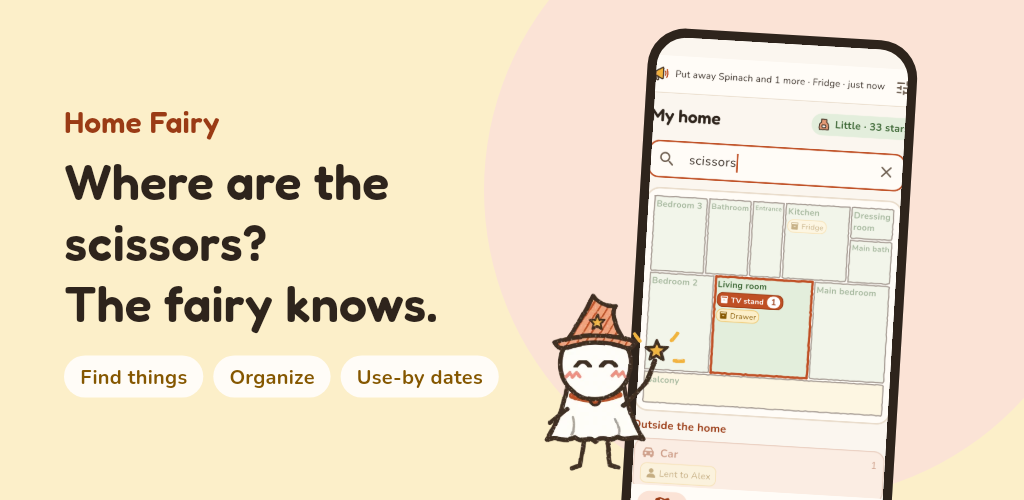
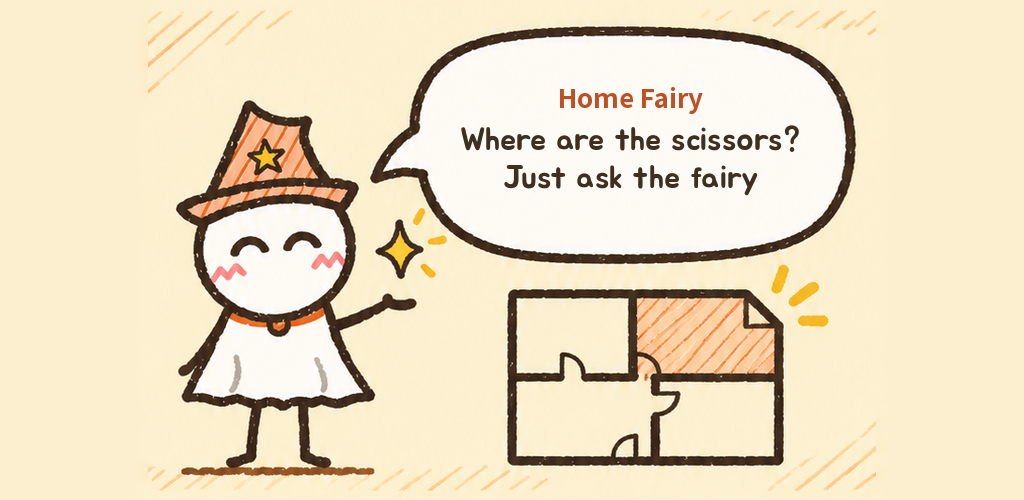
Fairy: five new poses (listen, think, answer, not found, ask); store art for talking to the fairy
- The ordered sprite sheet, cut out of its drawn checkerboard and placed
  like the other poses, with sticker-outlined dark versions. The talk
  screen uses them: listening, thinking while the server is asked, the
  answer, not found, and the question about buying.
- New feature graphic and a 7th screenshot ("말로 물어보면 요정이 찾아
  줘요") from the ordered art, in Korean and English. The golden test's
  older feature graphic now writes *-feature-map.png so it does not
  overwrite them. Cutting and layout scripts kept in docs/asset-brief.

Claude-Session: https://claude.ai/code/session_01B27ZN5yP1ixiSBpvkuwVVP

diff --git a/app/lib/features/search/search_results.dart b/app/lib/features/search/search_results.dart
@@ -207,14 +207,14 @@ class _SearchResultsState extends ConsumerState<SearchResults> {
       return Column(
         crossAxisAlignment: CrossAxisAlignment.stretch,
         children: [
-          _FairySays(l.fairyBuyAsk(term), pose: FairyPose.found),
+          _FairySays(l.fairyBuyAsk(term), pose: FairyPose.ask),
           _Action(intent: AskIntent.buy, name: term),
         ],
       );
     }
     final family = ref.watch(householdProvider).value;
     if (!_asking) _noteNothing(q);
-    final notFound = _FairySays(_asking ? l.searchThinking : l.fairyNotFound(term.isEmpty ? q : term), pose: _asking ? FairyPose.found : FairyPose.worry);
+    final notFound = _FairySays(_asking ? l.searchThinking : l.fairyNotFound(term.isEmpty ? q : term), pose: _asking ? FairyPose.think : FairyPose.notfound);
     // In a shared home, nobody's phone knew it: ask the people instead.
     if (_asking || family == null || family.members.length < 2 || term.isEmpty) return notFound;
     return Column(
@@ -263,7 +263,7 @@ class _CookIdeas extends ConsumerWidget {
   Widget build(BuildContext context, WidgetRef ref) {
     final l = AppLocalizations.of(context);
     final list = withTerm(ref.watch(cookIdeasProvider), term);
-    if (list.isEmpty) return _FairySays(l.fairyCookNone, pose: FairyPose.worry);
+    if (list.isEmpty) return _FairySays(l.fairyCookNone, pose: FairyPose.notfound);
     return Column(
       crossAxisAlignment: CrossAxisAlignment.stretch,
       children: [
@@ -335,7 +335,7 @@ class _List extends ConsumerWidget {
     return Column(
       crossAxisAlignment: CrossAxisAlignment.stretch,
       children: [
-        _FairySays(fairy, pose: FairyPose.found, smart: smart),
+        _FairySays(fairy, pose: FairyPose.answer, smart: smart),
         if (intent == AskIntent.buy || intent == AskIntent.usedUp) _Action(intent: intent, name: found.first.item.name, item: found.first.item),
         const SizedBox(height: AppSpace.sm),
         for (final f in found)

diff --git a/app/lib/features/search/ask_screen.dart b/app/lib/features/search/ask_screen.dart
@@ -129,7 +129,7 @@ class _AskScreenState extends ConsumerState<AskScreen> {
               children: [
                 // Newest at the bottom, right above the box.
                 for (final (i, t) in turns.reversed.indexed) _Turn(key: ValueKey('turn-${turns.length - i}-$t'), question: t),
-                if (turns.isEmpty) _Hello(text: l.askHello),
+                if (turns.isEmpty) _Hello(text: _listening ? l.voiceListening : l.askHello, listening: _listening),
               ],
             ),
           ),
@@ -182,9 +182,10 @@ class _AskScreenState extends ConsumerState<AskScreen> {
 
 /// The fairy says what she can do before anything is asked.
 class _Hello extends StatelessWidget {
-  const _Hello({required this.text});
+  const _Hello({required this.text, this.listening = false});
 
   final String text;
+  final bool listening;
 
   @override
   Widget build(BuildContext context) {
@@ -193,7 +194,7 @@ class _Hello extends StatelessWidget {
       padding: const EdgeInsets.only(top: AppSpace.xl),
       child: Column(
         children: [
-          const Fairy(FairyPose.hello, height: 120),
+          Fairy(listening ? FairyPose.listen : FairyPose.hello, height: 120),
           const SizedBox(height: AppSpace.md),
           FitText(text, textAlign: TextAlign.center, style: Theme.of(context).textTheme.bodyLarge?.copyWith(color: c.mutedFg)),
         ],

diff --git a/app/lib/widgets/fairy.dart b/app/lib/widgets/fairy.dart
@@ -3,7 +3,7 @@ import 'package:flutter/material.dart';
 /// The six House Fairy expressions (design/fairy/parts.svg, baked by
 /// tool/bake_fairy.mjs). Dark variants carry a light sticker outline so the
 /// stick arms stay visible on dark backgrounds.
-enum FairyPose { hello, found, carry, worry, cheer, sleep }
+enum FairyPose { hello, found, carry, worry, cheer, sleep, listen, think, answer, notfound, ask }
 
 class Fairy extends StatelessWidget {
   const Fairy(this.pose, {super.key, this.height = 120});

diff --git a/app/test/goldens/store_shots_test.dart b/app/test/goldens/store_shots_test.dart
@@ -318,7 +318,7 @@ void main() {
         await precacheImage(screen, context);
       });
       await tester.pumpAndSettle();
-      await expectLater(find.byType(MaterialApp), matchesGoldenFile('../../../docs/store/$lang-feature.png'));
+      await expectLater(find.byType(MaterialApp), matchesGoldenFile('../../../docs/store/$lang-feature-map.png'));
     });
   }
 }

diff --git a/docs/asset-brief/store.py b/docs/asset-brief/store.py
@@ -1,0 +1,54 @@
+import sys
+from PIL import Image, ImageDraw, ImageFont, ImageFilter
+SRC='docs/asset-brief/store-art-sheet.png'
+FONTS='/home/user/myhomes/app/assets/fonts/'
+SHOTS='/home/user/myhomes/app/test/tmp_shot/'
+OUT='/home/user/myhomes/docs/store/'
+src=Image.open(SRC).convert('RGB')
+top=src.crop((0,0,809,538)); bot=src.crop((0,565,809,1944))
+INK=(63,46,34); ORANGE=(191,79,36)
+def jua(n): return ImageFont.truetype(FONTS+'Jua-Regular.ttf',n)
+def noto(n): return ImageFont.truetype(FONTS+'NotoSansKR-Bold.ttf',n)
+T={'ko':dict(brand='우리집요정',feat=['가위 어디 뒀지?','요정에게 물어봐요'],head=['말로 물어보면','요정이 찾아 줘요'],sub='이름 · 초성 · 쓰임새 다 돼요'),
+   'en':dict(brand='Home Fairy',feat=['Where are the scissors?','Just ask the fairy'],head=['Just ask out loud.','The fairy finds it.'],sub='Names, initials or what it is for')}
+def fit(draw,text,font_fn,size,maxw):
+    while size>10 and draw.textlength(text,font=font_fn(size))>maxw: size-=2
+    return font_fn(size)
+for lang,t in T.items():
+    # Feature graphic 1024x500: the art at full height, the cream ground carried out to the sides.
+    s=500/top.height; art=top.resize((round(top.width*s),500),Image.LANCZOS)
+    fg=Image.new('RGB',(1024,500),(252,239,207)); ox=(1024-art.width)//2
+    fg.paste(art,(ox,0))
+    # soften the joins
+    for x0 in (ox, ox+art.width):
+        band=fg.crop((x0-12,0,x0+12,500)).filter(ImageFilter.GaussianBlur(6)); fg.paste(band,(x0-12,0))
+    d=ImageDraw.Draw(fg)
+    # speech bubble interior (art coords 300..760 x 45..270)
+    bx0,bx1=ox+round(320*s),ox+round(745*s); by0,by1=round(55*s),round(260*s); cx=(bx0+bx1)/2
+    f1=fit(d,t['brand'],noto,26,bx1-bx0-40)
+    lines=t['feat']; big=min(fit(d,l,jua,52,bx1-bx0-40).size for l in lines); f2=jua(big)
+    h=f1.size+12+len(lines)*(big+8); y=(by0+by1-h)/2
+    d.text((cx,y),t['brand'],font=f1,fill=ORANGE,anchor='mt'); y+=f1.size+12
+    for l in lines: d.text((cx,y),l,font=f2,fill=INK,anchor='mt'); y+=big+8
+    fg.save(OUT+f'{lang}-feature.png')
+    # Screenshot 7 (1080x1920): headline on top, the talk screen in a phone in the middle.
+    s2=1080/bot.width; bg=bot.resize((1080,round(bot.height*s2)),Image.LANCZOS)
+    shot=Image.new('RGB',(1080,1920),bg.getpixel((540,5))); shot.paste(bg,(0,1920-bg.height))
+    d=ImageDraw.Draw(shot)
+    y=110
+    for l in t['head']:
+        f=fit(d,l,jua,84,500); d.text((540,y),l,font=f,fill=INK,anchor='mt'); y+=f.size+14
+    f=fit(d,t['sub'],noto,34,470); d.text((540,y+16),t['sub'],font=f,fill=ORANGE,anchor='mt')
+    phone=Image.open(SHOTS+f'ask_{lang}.png').convert('RGB')
+    pw=440; ph=round(phone.height*pw/phone.width); phone=phone.resize((pw,ph),Image.LANCZOS)
+    frame=Image.new('RGBA',(pw+36,ph+36),(0,0,0,0)); fd=ImageDraw.Draw(frame)
+    fd.rounded_rectangle((0,0,pw+35,ph+35),radius=64,fill=INK)
+    mask=Image.new('L',(pw,ph),0); ImageDraw.Draw(mask).rounded_rectangle((0,0,pw-1,ph-1),radius=48,fill=255)
+    frame.paste(phone,(18,18),mask)
+    top_y=max(y+110,430)
+    px0=1080-frame.width-36
+    shadow=Image.new('RGBA',shot.size,(0,0,0,0)); ImageDraw.Draw(shadow).rounded_rectangle((px0+10,top_y+14,px0+frame.width+10,top_y+frame.height+14),radius=64,fill=(63,46,34,60))
+    shot=Image.alpha_composite(shot.convert('RGBA'),shadow.filter(ImageFilter.GaussianBlur(12)))
+    shot.alpha_composite(frame,(px0,top_y))
+    shot.convert('RGB').save(OUT+f'{lang}-7-ask.png')
+    print(lang,'phone bottom',top_y+frame.height)

diff --git a/docs/asset-brief/make.py b/docs/asset-brief/make.py
@@ -1,0 +1,52 @@
+import sys
+import numpy as np
+from PIL import Image, ImageFilter
+from scipy import ndimage
+src, out = sys.argv[1], sys.argv[2]
+rgb=np.array(Image.open(src).convert('RGB')).astype(int)
+mx=rgb.max(2); mn=rgb.min(2)
+bgish=(mn>205)&((mx-mn)<14)
+lab,_=ndimage.label(bgish)
+border=set(np.unique(np.concatenate([lab[0],lab[-1],lab[:,0],lab[:,-1]])))-{0}
+bgm=np.isin(lab,list(border))
+# Pockets the outline closes off (inside a bent arm) still show the
+# checkerboard: two greys alternating, unlike the flat white dress.
+lum=rgb.mean(2)
+for c in range(1,lab.max()+1):
+    if c in border: continue
+    cm=lab==c
+    if cm.sum()>30 and lum[cm].std()>4: bgm|=cm
+fg=~bgm
+lab2,n2=ndimage.label(fg)
+idx=range(1,n2+1)
+sizes=ndimage.sum(fg,lab2,idx)
+inked=ndimage.maximum(((mx-mn)>40)|(mn<120),lab2,idx)
+big=[i+1 for i,s in enumerate(sizes) if s>20000]
+cent={b:ndimage.center_of_mass(lab2==b) for b in big}
+order=sorted(big,key=lambda b:(round(cent[b][0]/300),cent[b][1]))
+names=['listen','think','answer','notfound','ask']
+assign={b:[b] for b in big}
+for i,s in enumerate(sizes):
+    c=i+1
+    if c in big or s<40 or not inked[i]: continue
+    cy,cx=ndimage.center_of_mass(lab2==c)
+    near=min(big,key=lambda b:(cent[b][0]-cy)**2+(cent[b][1]-cx)**2)
+    assign[near].append(c)
+for name,b in zip(names,order):
+    m=np.isin(lab2,assign[b])
+    m=ndimage.binary_erosion(m,iterations=1)
+    ys,xs=np.where(lab2==b); by0,by1=ys.min(),ys.max(); bcx=(xs.min()+xs.max())/2
+    ys2,xs2=np.where(m); y0,y1,x0,x1=ys2.min(),ys2.max(),xs2.min(),xs2.max()
+    rgba=np.dstack([rgb.astype('uint8'),(m*255).astype('uint8')])
+    crop=Image.fromarray(rgba,'RGBA').crop((x0,y0,x1+1,y1+1))
+    s=324/(by1-by0+1)
+    crop=crop.resize((max(1,round(crop.width*s)),max(1,round(crop.height*s))),Image.LANCZOS)
+    canvas=Image.new('RGBA',(360,420),(0,0,0,0))
+    px=round(180-(bcx-x0)*s); py=round(32-(by0-y0)*s)
+    px=min(max(px,4),360-crop.width-4)
+    canvas.alpha_composite(crop,(px,py))
+    canvas.save(f'{out}/{name}.webp',quality=90)
+    a=canvas.getchannel('A'); halo=a.filter(ImageFilter.MaxFilter(13))
+    dark=Image.new('RGBA',(360,420),(253,253,251,0)); dark.putalpha(halo)
+    dark.alpha_composite(canvas); dark.save(f'{out}/{name}_dark.webp',quality=90)
+    print(name,canvas.getchannel('A').getbbox(),len(assign[b]))

diff --git a/docs/store-listing.md b/docs/store-listing.md
@@ -17,8 +17,8 @@
 | 항목 | 파일 |
 |---|---|
 | 앱 아이콘 512×512 | `docs/store/icon-512.png` |
-| 그래픽 이미지 1024×500 | `docs/store/en-feature.png`(영어, 기본) · `ko-feature.png`(한국어): 질문 + 실제 검색 화면 + 요정 |
-| 휴대전화 스크린샷 1080×1920 | 언어마다 6장 `1-map` · `2-search` · `3-storage` · `4-add` · `5-expiry` · `6-moving`: 큰 문구 + 휴대폰 속 실제 화면 + 요정 |
+| 그래픽 이미지 1024×500 | `docs/store/en-feature.png`(영어, 기본) · `ko-feature.png`(한국어): 요정 말풍선 "가위 어디 뒀지? 요정에게 물어봐요" (1.0.14 그림, 발주 그림 + 문구는 `docs/asset-brief`). 이전 판(실제 검색 화면)은 골든 테스트가 `*-feature-map.png` 로 만듦 |
+| 휴대전화 스크린샷 1080×1920 | 언어마다 6장 `1-map` · `2-search` · `3-storage` · `4-add` · `5-expiry` · `6-moving` · `7-ask`(요정에게 말하기, 발주 그림 배경): 큰 문구 + 휴대폰 속 실제 화면 + 요정 |
 
 기본 언어는 **영어(en-US)**, 번역 **한국어(ko-KR)**: 한국어 폰은 한국어, 그 밖은 영어가 보인다.
 
